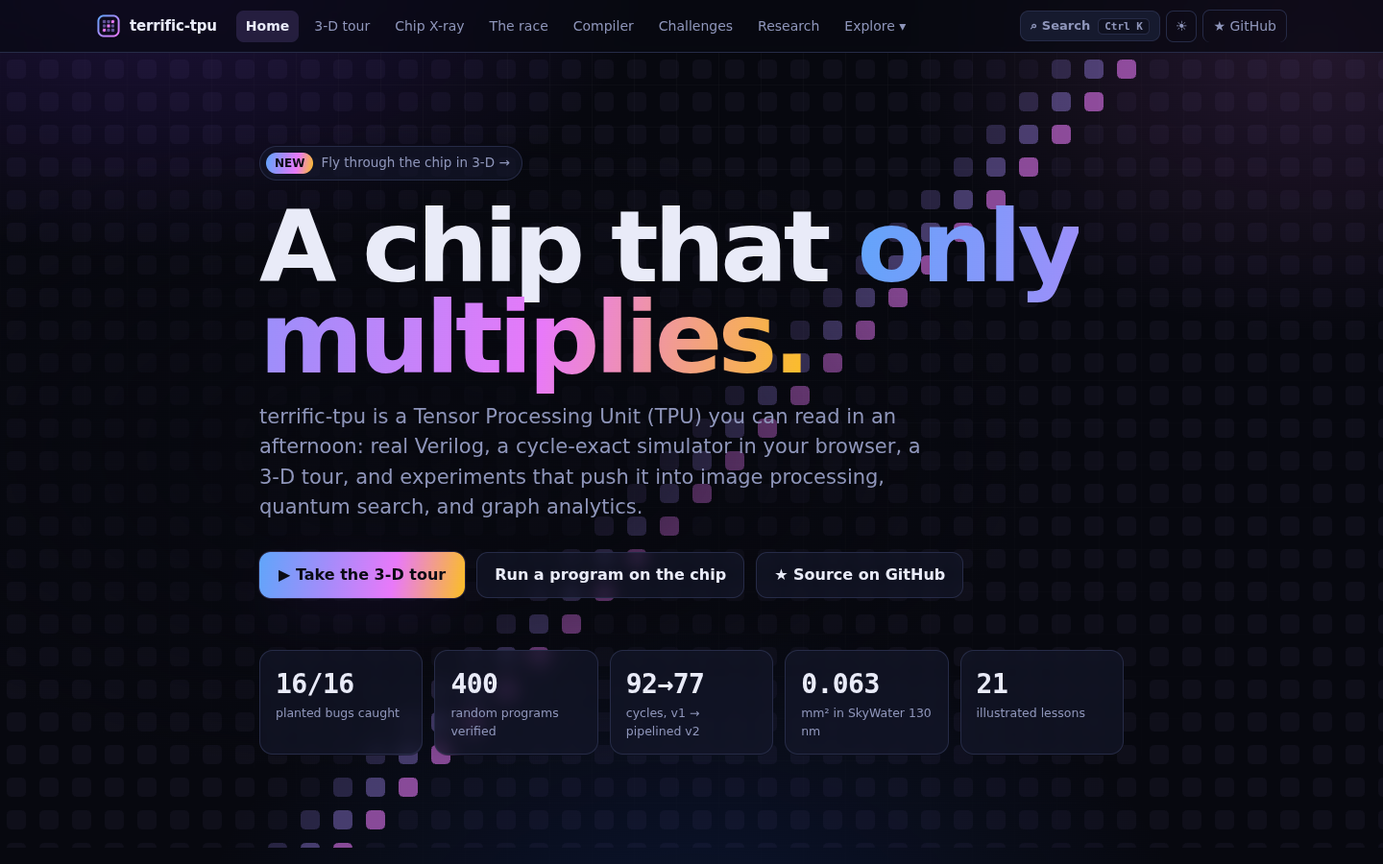
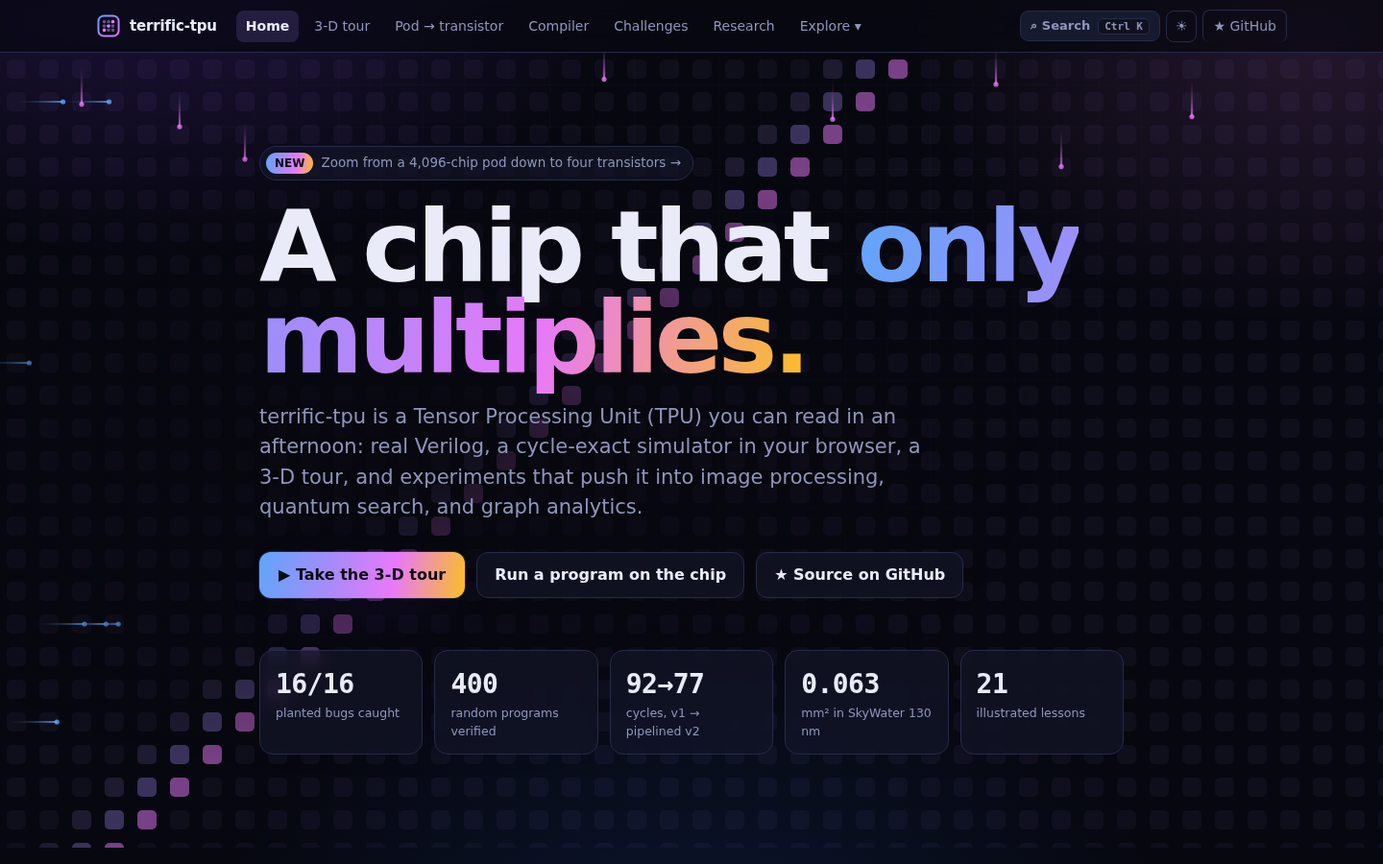
Pod-to-transistor zoom page, tidier navigation

diff --git a/web/zoom.html b/web/zoom.html
@@ -1,0 +1,207 @@
+<!DOCTYPE html>
+<html lang="en" data-theme="dark">
+<head>
+<meta charset="utf-8">
+<meta name="viewport" content="width=device-width, initial-scale=1, viewport-fit=cover">
+<title>terrific-tpu: from pod to transistor</title>
+<script>try{document.documentElement.dataset.theme=localStorage.getItem("tt-theme")||"dark"}catch(e){}</script>
+<link rel="preconnect" href="https://fonts.googleapis.com"><link rel="preconnect" href="https://fonts.gstatic.com" crossorigin>
+<link href="https://fonts.googleapis.com/css2?family=Archivo:wght@400;600;800;900&family=JetBrains+Mono:wght@500;700&display=swap" rel="stylesheet">
+<link rel="stylesheet" href="site.css">
+<style>
+html, body { height: 100%; } body { display: flex; flex-direction: column; overflow: hidden; }
+.stage { position: relative; flex: 1; min-height: 0; background: #03040A; }
+#cv { position: absolute; inset: 0; width: 100%; height: 100%; touch-action: none; cursor: zoom-in; }
+.panel { position: absolute; z-index: 3; left: 18px; bottom: 18px; width: min(420px, calc(100% - 36px)); padding: 20px; border-radius: 18px;
+  border: 1px solid var(--line); background: rgba(8,10,20,.82); backdrop-filter: blur(14px); color: #E9EBF8; }
+.panel .lvl { font: 600 12px "JetBrains Mono", monospace; letter-spacing: .12em; text-transform: uppercase; color: #A78BFA; }
+.panel h1 { font-size: 30px; margin: 6px 0 8px; letter-spacing: -.03em; line-height: 1.05; }
+.panel p { color: #B7BCDA; margin: 0; font-size: 14.5px; line-height: 1.55; }
+.panel .scale { margin-top: 10px; font: 600 12.5px "JetBrains Mono", monospace; color: #FBBF24; }
+.panel .link { margin-top: 10px; font-size: 13px; } .panel .link a { color: #E9EBF8; }
+.crumbs { position: absolute; z-index: 3; top: 16px; left: 16px; right: 16px; display: flex; gap: 6px; flex-wrap: wrap; }
+.crumbs button { font-size: 12.5px; padding: 5px 10px; background: rgba(8,10,20,.7); color: #B7BCDA; border: 1px solid rgba(255,255,255,.12); }
+.crumbs button[aria-current="true"] { background: rgba(167,139,250,.3); color: #fff; border-color: #A78BFA; }
+.ctl { position: absolute; z-index: 3; right: 18px; bottom: 18px; display: flex; gap: 8px; align-items: center; padding: 10px 12px; border-radius: 14px;
+  background: rgba(8,10,20,.8); border: 1px solid var(--line); color: #E9EBF8; }
+.ctl button { font-size: 13px; padding: 6px 10px; background: rgba(255,255,255,.06); color: #E9EBF8; border-color: rgba(255,255,255,.14); }
+.ctl input { width: 180px; accent-color: #A78BFA; }
+.hint { position: absolute; z-index: 3; right: 18px; top: 60px; color: #8E95BA; font-size: 12.5px; }
+@media (max-width: 760px) { .ctl input { width: 110px; } .panel p { font-size: 13px; } .hint { display: none; } }
+</style>
+<link rel="stylesheet" href="assets/theme.css">
+</head>
+<body data-nofooter>
+<nav class="site"></nav>
+<div class="stage">
+  <canvas id="cv" aria-label="A continuous zoom from a TPU pod down to a single transistor gate"></canvas>
+  <div class="crumbs" id="crumbs" role="group" aria-label="Jump to a level"></div>
+  <div class="hint">scroll or drag up/down to zoom · <kbd>←</kbd> <kbd>→</kbd> jump a level</div>
+  <aside class="panel" aria-live="polite"><div class="lvl" id="lvl"></div><h1 id="ttl"></h1><p id="txt"></p><div class="scale" id="scl"></div><div class="link" id="lnk"></div></aside>
+  <div class="ctl"><button id="out" aria-label="Zoom out">－</button><input id="z" type="range" min="0" max="8" step="0.001" value="0" aria-label="Zoom level"><button id="in" aria-label="Zoom in">＋</button><button id="play" class="primary">▶ Tour</button></div>
+</div>
+<script>
+(function () {
+  const $ = id => document.getElementById(id);
+  const cv = $("cv"), g = cv.getContext("2d");
+  const C = { act: "#60A5FA", wt: "#FBBF24", ps: "#E879F9", out: "#34D399", mxu: "#A78BFA", ctl: "#94A3B8", red: "#F87171", dim: "#1B2040", ink: "#E9EBF8" };
+  let T = 0;
+  // Each level draws itself into a box (x, y, w, h) and names the child rectangle (unit coordinates) the camera dives into.
+  const rr = (x, y, w, h, r, fill, stroke, lw = 1.5) => { g.beginPath(); g.roundRect(x, y, w, h, Math.min(r, w / 2, h / 2)); if (fill) { g.fillStyle = fill; g.fill(); } if (stroke) { g.strokeStyle = stroke; g.lineWidth = lw; g.stroke(); } };
+  const txt = (s, x, y, size, col, align = "center", weight = 700) => { if (size < 5) return; g.font = `${weight} ${size}px JetBrains Mono, monospace`; g.fillStyle = col; g.textAlign = align; g.fillText(s, x, y); };
+  const L = [
+    { name: "TPU pod", scale: "≈ a room · thousands of chips", child: [0.43, 0.43, 0.08, 0.08],
+      title: "A pod of thousands of chips",
+      text: "TPU v4 pods connect 4,096 chips into a 3-D torus: every chip talks directly to its neighbors, and optical circuit switches can rewire the shape. Training a large model splits it across all of them.",
+      link: ["Lesson 13 · Real TPUs", "https://github.com/Normansrule/terrific-tpu/blob/main/docs/13-real-tpus.md"],
+      draw(x, y, w, h) { const n = 12, s = w / n;
+        for (let i = 0; i < n; i++) for (let j = 0; j < n; j++) { const cx = x + (j + .5) * s, cy = y + (i + .5) * s;
+          if (j < n - 1) { g.strokeStyle = "rgba(96,165,250,.35)"; g.lineWidth = s * .05; g.beginPath(); g.moveTo(cx, cy); g.lineTo(cx + s, cy); g.stroke(); }
+          if (i < n - 1) { g.strokeStyle = "rgba(232,121,249,.3)"; g.beginPath(); g.moveTo(cx, cy); g.lineTo(cx, cy + s); g.stroke(); } }
+        for (let i = 0; i < n; i++) for (let j = 0; j < n; j++) { const glow = .5 + .5 * Math.sin(T * 2 - (i + j) * .5);
+          rr(x + j * s + s * .18, y + i * s + s * .18, s * .64, s * .64, s * .1, `rgba(167,139,250,${.25 + .45 * glow})`, "#A78BFA", s * .03); } } },
+    { name: "Board", scale: "≈ tens of centimeters", child: [0.12, 0.22, 0.3, 0.3],
+      title: "One board, four chips",
+      text: "Each chip sits on a board with its own power delivery and cooling, next to its neighbors. The thick links leaving the board are the chip-to-chip interconnect that forms the torus.",
+      link: ["Pod torus diagram", "https://github.com/Normansrule/terrific-tpu/blob/main/docs/13-real-tpus.md"],
+      draw(x, y, w, h) { rr(x, y, w, h, w * .03, "#0B1A12", "#2F6B4A", w * .006);
+        for (let k = 0; k < 40; k++) { g.strokeStyle = "rgba(52,211,153,.18)"; g.lineWidth = w * .002; g.beginPath(); const yy = y + h * (.05 + k * .023); g.moveTo(x + w * .02, yy); g.lineTo(x + w * .98, yy); g.stroke(); }
+        [[.12, .22], [.58, .22], [.12, .6], [.58, .6]].forEach(([u, v], i) => {
+          rr(x + u * w, y + v * h, .3 * w, .3 * h, w * .02, "#1B1F33", "#A78BFA", w * .005);
+          rr(x + (u + .07) * w, y + (v + .07) * h, .16 * w, .16 * h, w * .01, "#2A2F52", "#E879F9", w * .004);
+          txt("TPU", x + (u + .15) * w, y + (v + .165) * h, w * .03, "#E9EBF8"); });
+        for (let i = 0; i < 6; i++) rr(x + w * (.02 + i * .16), y + h * .92, w * .12, h * .05, w * .01, "#94A3B8"); } },
+    { name: "Package", scale: "≈ a few centimeters", child: [0.33, 0.33, 0.34, 0.34],
+      title: "The chip package",
+      text: "The silicon die sits in the middle. Around it, stacks of High Bandwidth Memory (HBM) are mounted millimeters away so the multipliers can be fed fast enough: the roofline problem, solved with packaging.",
+      link: ["Lesson 11 · the roofline", "https://github.com/Normansrule/terrific-tpu/blob/main/docs/11-performance.md"],
+      draw(x, y, w, h) { rr(x, y, w, h, w * .03, "#141729", "#475569", w * .006);
+        [[.08, .12], [.08, .58], [.74, .12], [.74, .58]].forEach(([u, v]) => { rr(x + u * w, y + v * h, .18 * w, .3 * h, w * .012, "#2A1F10", "#FBBF24", w * .004);
+          for (let k = 0; k < 6; k++) { g.fillStyle = "rgba(251,191,36,.25)"; g.fillRect(x + (u + .02) * w, y + (v + .03 + k * .045) * h, .14 * w, .025 * h); }
+          txt("HBM", x + (u + .09) * w, y + (v + .28) * h, w * .025, "#FBBF24"); });
+        rr(x + .33 * w, y + .33 * h, .34 * w, .34 * h, w * .01, "#1C1640", "#E879F9", w * .006);
+        txt("die", x + .5 * w, y + .52 * h, w * .04, "#E9EBF8"); } },
+    { name: "Die", scale: "≈ 2 centimeters", child: [0.08, 0.1, 0.18, 0.18],
+      title: "Inside the die",
+      text: "A TPU v4 die holds two TensorCores. Each has four matrix-multiply units (MXUs) of 128 × 128 cells, a vector unit for everything that isn't a matrix multiply, a scalar unit that runs the control flow, and big on-chip memories.",
+      link: ["Chip X-ray (TinyTPU's own floor plan)", "xray.html"],
+      draw(x, y, w, h) { rr(x, y, w, h, w * .01, "#0A0C1A", "#E879F9", w * .004);
+        [0, .5].forEach((u, core) => { rr(x + (u + .04) * w, y + .05 * h, .42 * w, .9 * h, w * .01, null, "rgba(167,139,250,.5)", w * .003);
+          txt(`TensorCore ${core}`, x + (u + .25) * w, y + .045 * h, w * .022, "#A78BFA");
+          for (let m = 0; m < 4; m++) { const mx = x + (u + .04 + (m % 2) * .22) * w, my = y + (.1 + Math.floor(m / 2) * .22) * h, pulse = .5 + .5 * Math.sin(T * 3 + m + core);
+            rr(mx, my, .18 * w, .18 * h, w * .006, `rgba(167,139,250,${.25 + .4 * pulse})`, "#A78BFA", w * .003); txt("MXU", mx + .09 * w, my + .1 * h, w * .022, "#fff"); }
+          rr(x + (u + .06) * w, y + .56 * h, .38 * w, .12 * h, w * .006, "rgba(52,211,153,.25)", "#34D399", w * .003); txt("vector unit", x + (u + .25) * w, y + .63 * h, w * .02, "#34D399");
+          rr(x + (u + .06) * w, y + .71 * h, .18 * w, .08 * h, w * .006, "rgba(148,163,184,.25)", "#94A3B8", w * .003); txt("scalar", x + (u + .15) * w, y + .76 * h, w * .018, "#94A3B8");
+          rr(x + (u + .26) * w, y + .71 * h, .18 * w, .2 * h, w * .006, "rgba(96,165,250,.2)", "#60A5FA", w * .003); txt("memory", x + (u + .35) * w, y + .82 * h, w * .018, "#60A5FA"); }); } },
+    { name: "Matrix unit", scale: "≈ a few millimeters", child: [0.2, 0.2, 0.1, 0.1],
+      title: "128 × 128 multiply-accumulate cells",
+      text: "16,384 cells in a grid. Weights sit still inside the cells; inputs flow in from the left and partial sums flow down, one step per clock. The diagonal glow is the wavefront. TinyTPU is the same idea at 4 × 4.",
+      link: ["3-D chip tour", "tour.html"],
+      draw(x, y, w, h) { const n = 10, s = w / n; rr(x, y, w, h, 0, "#0B0D1C");
+        for (let i = 0; i < n; i++) for (let j = 0; j < n; j++) { const d = ((T * 4) % (2 * n + 6)) - (i + j), on = d > 0 && d < 3;
+          rr(x + j * s + s * .08, y + i * s + s * .08, s * .84, s * .84, s * .12, on ? `rgba(232,121,249,${.5 + .2 * (3 - d)})` : "rgba(167,139,250,.22)", on ? "#E879F9" : "rgba(167,139,250,.5)", s * .03); }
+        txt("…continues to 128 × 128", x + w * .5, y + h * 1.04, w * .03, "#8E95BA"); } },
+    { name: "One cell", scale: "≈ 20 micrometers", child: [0.3, 0.38, 0.22, 0.22],
+      title: "One processing element",
+      text: "A weight register, a multiplier, an adder, and registers that pass the input right and the sum down. This is exactly rtl/v1_simple/pe.v: in SkyWater 130 nm it's 808 standard cells in about 6,900 µm².",
+      link: ["rtl/v1_simple/pe.v", "https://github.com/Normansrule/terrific-tpu/blob/main/rtl/v1_simple/pe.v"],
+      draw(x, y, w, h) { rr(x, y, w, h, w * .02, "#0E1024", "#A78BFA", w * .006);
+        const box = (u, v, bw, bh, col, s) => { rr(x + u * w, y + v * h, bw * w, bh * h, w * .015, col + "33", col, w * .005); txt(s, x + (u + bw / 2) * w, y + (v + bh / 2 + .015) * h, w * .035, col); };
+        box(.3, .1, .22, .16, C.wt, "weight"); box(.3, .38, .22, .22, C.mxu, "×"); box(.62, .38, .22, .22, C.ps, "+");
+        box(.62, .72, .22, .14, C.ps, "sum reg"); box(.62, .1, .22, .16, C.act, "input reg");
+        const arr = (x1, y1, x2, y2, col) => { g.strokeStyle = col; g.lineWidth = w * .008; g.beginPath(); g.moveTo(x + x1 * w, y + y1 * h); g.lineTo(x + x2 * w, y + y2 * h); g.stroke(); };
+        arr(.02, .49, .3, .49, C.act); arr(.41, .26, .41, .38, C.wt); arr(.52, .49, .62, .49, C.mxu); arr(.73, .02, .73, .1, C.ps); arr(.73, .6, .73, .72, C.ps); arr(.73, .86, .73, .98, C.ps); arr(.52, .18, .62, .18, C.act); arr(.84, .18, .98, .18, C.act);
+        const f = (T * .8) % 1; g.fillStyle = C.act; g.beginPath(); g.arc(x + (.02 + .28 * f) * w, y + .49 * h, w * .015, 0, 7); g.fill(); } },
+    { name: "Multiplier", scale: "≈ 10 micrometers", child: [0.62, 0.62, 0.1, 0.1],
+      title: "An 8 × 8 multiplier",
+      text: "Multiplication in binary is shift-and-add. 64 AND gates form the partial products (each bit of one number times each bit of the other), and rows of full adders sum them. Signed versions add a small correction (Baugh-Wooley or Booth encoding).",
+      link: ["Lesson 3 · why fewer bits is cheaper", "https://github.com/Normansrule/terrific-tpu/blob/main/docs/03-numbers-and-quantization.md"],
+      draw(x, y, w, h) { const n = 8, s = w / (n + 2); rr(x, y, w, h, w * .02, "#0E1024", "#A78BFA", w * .004);
+        for (let i = 0; i < n; i++) for (let j = 0; j < n; j++) { const on = ((i * 3 + j * 5 + Math.floor(T * 2)) % 4) === 0;
+          rr(x + (j + 1) * s + s * .1, y + (i + 1) * s + s * .1, s * .8, s * .8, s * .15, on ? "rgba(251,191,36,.6)" : "rgba(96,165,250,.18)", on ? "#FBBF24" : "rgba(96,165,250,.6)", s * .04);
+          txt(i < 7 && j > 0 ? "FA" : "&", x + (j + 1.5) * s, y + (i + 1.62) * s, s * .32, on ? "#1a1204" : "#60A5FA"); }
+        txt("a[7:0]", x + w * .5, y + s * .65, s * .38, C.act); txt("b[7:0]", x + s * .5, y + h * .5, s * .38, C.wt); } },
+    { name: "Full adder", scale: "≈ 5 micrometers", child: [0.5, 0.18, 0.16, 0.2],
+      title: "A full adder",
+      text: "Adds three bits (a, b, carry-in) into a sum and a carry-out: sum = a ⊕ b ⊕ cin, cout = ab + cin(a ⊕ b). Here it's five gates; standard-cell libraries also offer it as one optimized cell (sky130's fa).",
+      link: ["Standard cells in the chip X-ray", "xray.html"],
+      draw(x, y, w, h) { rr(x, y, w, h, w * .02, "#0E1024", "#A78BFA", w * .004);
+        const gate = (u, v, lab, col) => { rr(x + u * w, y + v * h, .16 * w, .2 * h, w * .03, col + "33", col, w * .006); txt(lab, x + (u + .08) * w, y + (v + .12) * h, w * .04, col); };
+        gate(.25, .18, "XOR", C.act); gate(.5, .18, "XOR", C.act); gate(.25, .5, "AND", C.out); gate(.5, .5, "AND", C.out); gate(.75, .62, "OR", C.ps);
+        const wire = (pts, col) => { g.strokeStyle = col; g.lineWidth = w * .006; g.beginPath(); pts.forEach(([u, v], i) => i ? g.lineTo(x + u * w, y + v * h) : g.moveTo(x + u * w, y + v * h)); g.stroke(); };
+        wire([[.05, .24], [.25, .24]], C.ink); wire([[.05, .32], [.25, .32]], C.ink); wire([[.41, .28], [.5, .28]], C.ink); wire([[.05, .42], [.46, .42], [.46, .24], [.5, .24]], C.ink);
+        wire([[.66, .28], [.95, .28]], C.act); wire([[.66, .6], [.75, .66]], C.out); wire([[.41, .6], [.46, .6], [.46, .8], [.75, .76]], C.out); wire([[.91, .72], [.97, .72]], C.ps);
+        txt("a", x + .03 * w, y + .245 * h, w * .035, C.ink, "left"); txt("b", x + .03 * w, y + .325 * h, w * .035, C.ink, "left"); txt("cin", x + .01 * w, y + .425 * h, w * .03, C.ink, "left");
+        txt("sum", x + .9 * w, y + .26 * h, w * .03, C.act); txt("cout", x + .93 * w, y + .69 * h, w * .03, C.ps); } },
+    { name: "Transistors", scale: "≈ 1 micrometer", child: null,
+      title: "Four transistors",
+      text: "Every gate is built from complementary metal-oxide-semiconductor (CMOS) transistors. A NAND gate is two P-type transistors in parallel to the supply and two N-type in series to ground. Billions of these, switching in rhythm, are the TPU.",
+      link: ["Research library: open-source silicon", "research.html"],
+      draw(x, y, w, h) { rr(x, y, w, h, w * .02, "#0E1024", "#A78BFA", w * .004);
+        const fet = (u, v, p, on) => { rr(x + u * w, y + v * h, .12 * w, .14 * h, w * .015, on ? (p ? "rgba(96,165,250,.45)" : "rgba(52,211,153,.45)") : "rgba(148,163,184,.12)", p ? C.act : C.out, w * .005);
+          txt(p ? "P" : "N", x + (u + .06) * w, y + (v + .09) * h, w * .045, p ? C.act : C.out); };
+        const a = Math.floor(T) % 2, b = Math.floor(T / 2) % 2;
+        fet(.28, .2, true, !a); fet(.58, .2, true, !b); fet(.43, .52, false, a); fet(.43, .72, false, b);
+        const line = (pts, col) => { g.strokeStyle = col; g.lineWidth = w * .006; g.beginPath(); pts.forEach(([u, v], i) => i ? g.lineTo(x + u * w, y + v * h) : g.moveTo(x + u * w, y + v * h)); g.stroke(); };
+        line([[.2, .1], [.8, .1]], C.red); txt("VDD", x + .12 * w, y + .11 * h, w * .03, C.red); line([[.34, .1], [.34, .2]], C.red); line([[.64, .1], [.64, .2]], C.red);
+        line([[.34, .34], [.34, .44], [.64, .44], [.64, .34]], C.ink); line([[.49, .44], [.49, .52]], C.ink); line([[.49, .66], [.49, .72]], C.ink); line([[.49, .86], [.49, .92]], C.ctl);
+        line([[.2, .92], [.8, .92]], C.ctl); txt("GND", x + .12 * w, y + .93 * h, w * .03, C.ctl);
+        line([[.64, .44], [.9, .44]], C.ps); const out = !(a && b) ? 1 : 0; txt(`out = ${out}`, x + .9 * w, y + .41 * h, w * .035, C.ps);
+        txt(`a = ${a}   b = ${b}`, x + .5 * w, y + .06 * h, w * .032, C.ink); } }
+  ];
+  $("z").max = L.length - 1;
+  $("crumbs").innerHTML = L.map((l, i) => `<button data-i="${i}">${i + 1}. ${l.name}</button>`).join("");
+  $("crumbs").querySelectorAll("button").forEach(b => b.onclick = () => target = +b.dataset.i);
+  let z = 0, target = null, W = 0, H = 0, dpr = 1, playing = false;
+  function resize() { dpr = Math.min(2, devicePixelRatio || 1); W = cv.clientWidth; H = cv.clientHeight; cv.width = W * dpr; cv.height = H * dpr; }
+  // The camera: at level i with fraction f, zoom so level i's child rectangle grows from its size to fill the view.
+  function draw() {
+    g.setTransform(dpr, 0, 0, dpr, 0, 0); g.clearRect(0, 0, W, H);
+    const i = Math.min(L.length - 1, Math.floor(z)), f = z - i, S = Math.min(W, H) * 0.86;
+    const lv = L[i], ch = lv.child;
+    let bx = (W - S) / 2, by = (H - S) / 2, bs = S;                         // box of level i at f = 0
+    if (ch && f > 0) {
+      // scale grows exponentially; the child's centre slides in a straight line to the screen centre
+      const scale = Math.pow(1 / ch[2], f), cxu = ch[0] + ch[2] / 2, cyu = ch[1] + ch[3] / 2;
+      bs = S * scale;
+      const px = ((W - S) / 2 + cxu * S) * (1 - f) + (W / 2) * f, py = ((H - S) / 2 + cyu * S) * (1 - f) + (H / 2) * f;
+      bx = px - cxu * bs; by = py - cyu * bs;
+    }
+    g.save(); g.globalAlpha = ch ? 1 - Math.max(0, (f - .7) / .3) * .85 : 1; lv.draw(bx, by, bs, bs); g.restore();
+    if (ch) {                                                                    // highlight + the next level fading in inside it
+      const cx = bx + ch[0] * bs, cy = by + ch[1] * bs, cw = ch[2] * bs, chh = ch[3] * bs;
+      g.strokeStyle = `rgba(232,121,249,${.9 - f * .9})`; g.lineWidth = 2.5; g.setLineDash([6, 5]); g.strokeRect(cx - 4, cy - 4, cw + 8, chh + 8); g.setLineDash([]);
+      if (f > .25) { g.save(); g.globalAlpha = Math.min(1, (f - .25) / .55); g.beginPath(); g.rect(cx, cy, cw, chh); g.clip();
+        const s2 = Math.min(cw, chh); L[i + 1].draw(cx + (cw - s2) / 2, cy + (chh - s2) / 2, s2, s2); g.restore(); }
+    }
+    const k = Math.round(z), cur = L[Math.min(L.length - 1, f > .6 && ch ? i + 1 : i)];
+    $("lvl").textContent = `level ${L.indexOf(cur) + 1} of ${L.length} · ${cur.name}`; $("ttl").textContent = cur.title; $("txt").textContent = cur.text;
+    $("scl").textContent = "scale: " + cur.scale;
+    const [ln, lh] = cur.link; $("lnk").innerHTML = `Go deeper: <a href="${lh}">${ln} →</a>`;
+    $("crumbs").querySelectorAll("button").forEach((b, n) => b.setAttribute("aria-current", n === L.indexOf(cur)));
+    $("z").value = z;
+  }
+  cv.addEventListener("wheel", e => { e.preventDefault(); z = Math.max(0, Math.min(L.length - 1, z - e.deltaY * .0012)); target = null; playing = false; $("play").textContent = "▶ Tour"; }, { passive: false });
+  let drag = null;
+  cv.addEventListener("pointerdown", e => { drag = e.clientY; cv.setPointerCapture(e.pointerId); });
+  cv.addEventListener("pointermove", e => { if (drag === null) return; z = Math.max(0, Math.min(L.length - 1, z + (drag - e.clientY) * .006)); drag = e.clientY; target = null; });
+  cv.addEventListener("pointerup", () => drag = null);
+  $("z").oninput = e => { z = +e.target.value; target = null; };
+  $("in").onclick = () => target = Math.min(L.length - 1, Math.floor(z + 1e-6) + 1);
+  $("out").onclick = () => target = Math.max(0, Math.ceil(z - 1e-6) - 1);
+  $("play").onclick = () => { playing = !playing; $("play").textContent = playing ? "❚❚ Pause" : "▶ Tour"; if (playing && z >= L.length - 1.01) z = 0; };
+  addEventListener("keydown", e => { if (e.key === "ArrowRight") $("in").click(); if (e.key === "ArrowLeft") $("out").click(); });
+  let last = performance.now(), hold = 0;
+  function frame(now) {
+    const dt = Math.min(.05, (now - last) / 1000); last = now; T += dt;
+    if (target !== null) { z += (target - z) * (1 - Math.pow(.02, dt)); if (Math.abs(target - z) < .002) { z = target; target = null; } }
+    else if (playing) { if (Math.abs(z - Math.round(z)) < .01 && hold < 2.6) hold += dt; else { hold = Math.abs(z - Math.round(z)) < .01 ? 0 : hold; z = Math.min(L.length - 1, z + dt * .35); if (z >= L.length - 1) { playing = false; $("play").textContent = "▶ Tour"; } } }
+    draw(); requestAnimationFrame(frame);
+  }
+  addEventListener("resize", resize); resize(); requestAnimationFrame(frame);
+  window.__zoom = { set: v => { z = v; target = null; }, L };
+})();
+</script>
+<script src="assets/ui.js"></script>
+</body>
+</html>

diff --git a/web/assets/ui.js b/web/assets/ui.js
@@ -14,8 +14,9 @@
   const PAGES = [
     ["index.html", "Home", "Start here: the story of a chip that only multiplies", "main"],
     ["tour.html", "3-D tour", "Fly through the whole chip while it runs a neural network", "main"],
-    ["xray.html", "Chip X-ray", "Zoom from the die down to single standard cells", "main"],
-    ["race.html", "The race", "CPU vs vector unit vs systolic array: speed and energy", "main"],
+    ["zoom.html", "Pod → transistor", "One continuous zoom from 4,096 chips down to four transistors", "main"],
+    ["xray.html", "Chip X-ray", "Zoom from the die down to single standard cells", "more"],
+    ["race.html", "The race", "CPU vs vector unit vs systolic array: speed and energy", "more"],
     ["compile.html", "Compiler", "Design a network, compile it to TinyTPU, run it", "main"],
     ["challenges.html", "Challenges", "Program the chip, beat the par, earn stars", "main"],
     ["research.html", "Research", "Papers behind every idea, mapped to the code", "main"],

diff --git a/web/index.html b/web/index.html
@@ -90,7 +90,7 @@ p.sub { color: var(--muted); font-size: 18px; max-width: 60ch; margin: 0 0 36px;
 <section class="hero">
   <canvas id="field" aria-hidden="true"></canvas>
   <div class="wrap">
-    <a class="pill" href="tour.html"><b>NEW</b> Fly through the chip in 3-D →</a>
+    <a class="pill" href="zoom.html"><b>NEW</b> Zoom from a 4,096-chip pod down to four transistors →</a>
     <h1>A chip that <span class="grad-text">only multiplies.</span></h1>
     <p class="lede">terrific-tpu is a Tensor Processing Unit (TPU) you can read in an afternoon: real Verilog, a cycle-exact simulator in your browser, a 3-D tour, and experiments that push it into image processing, quantum search, and graph analytics.</p>
     <div class="cta">

diff --git a/README.md b/README.md
@@ -6,7 +6,7 @@
 ![Tests](https://img.shields.io/badge/tests-400%20random%20programs%20·%2016%2F16%20mutants-059669)
 ![Apps](https://img.shields.io/badge/apps-neural%20net%20·%20Fourier%20·%20vision%20·%20quantum%20·%20graphs-C026D3)
 ![Silicon](https://img.shields.io/badge/synthesis-SkyWater%20sky130-D97706)
-![Web](https://img.shields.io/badge/web-14%20interactive%20pages%20·%203--D-2563EB)
+![Web](https://img.shields.io/badge/web-15%20interactive%20pages%20·%203--D-2563EB)
 ![Research](https://img.shields.io/badge/research-28%20papers%20mapped%20to%20code-E879F9)
 ![License](https://img.shields.io/badge/license-MIT-64748B)
 
@@ -55,6 +55,7 @@ Everything runs in the browser, on GitHub Pages or locally with `make serve`. Pr
 |---|---|---|
 | <img src="docs/img/index.png" width="260"> | [**Home**](web/index.html) | an interactive systolic field, a scroll-driven story of the four beats of a matrix multiply, and every command you need |
 | <img src="docs/img/tour.png" width="260"> | [**3-D chip tour**](web/tour.html) | fly through the whole chip in 3-D while it runs a real neural network; 8 guided chapters, a 92-cycle scrubber, hover any PE to read its registers |
+| <img src="docs/img/zoom.png" width="260"> | [**Pod → transistor**](web/zoom.html) | one continuous zoom through nine levels: a 4,096-chip pod, a board, the package with its memory stacks, the die, a 128 × 128 matrix unit, one processing element, an 8 × 8 multiplier, a full adder, and a four-transistor gate, each explained in plain words |
 | <img src="docs/img/xray.png" width="260"> | [**Chip X-ray**](web/xray.html) | a zoomable floor plan of the die in SkyWater 130 nm: scroll from the whole chip down to individual standard cells in 2.72 µm rows, and watch blocks glow as the chip runs a neural network |
 | <img src="docs/img/race.png" width="260"> | [**The race**](web/race.html) | a scalar CPU, a vector unit, and the systolic array compute the same matrix product; one prize for fastest, one for least energy |
 | <img src="docs/img/compile.png" width="260"> | [**Compiler**](web/compile.html) | design a neural network with buttons; the page tiles it, allocates memory, schedules instructions, calibrates shifts, runs it on the chip model, and checks every output; one click opens it in the simulator or the waveform viewer |
@@ -250,7 +251,7 @@ terrific-tpu/
 │   ├── synth_report.sh      Yosys + sky130 area report
 │   └── diagrams/            every generated SVG (concept + measured)
 ├── experiments/          e1..e5 scripts, common.py, results/*.csv
-├── web/                  index · tour · xray · race · compile · challenges · research · chip · wave · quiz · apps · array3d · playground · explorers
+├── web/                  index · tour · zoom · xray · race · compile · challenges · research · chip · wave · quiz · apps · array3d · playground · explorers
 │   ├── tinytpu-core.js      cycle-exact JavaScript models of both chips (v1 and v2) + assembler
 │   ├── assets/              theme.css (design system) · ui.js (navigation, animations)
 │   └── vendor/three/        three.js r160 (MIT), for the 3-D pages
